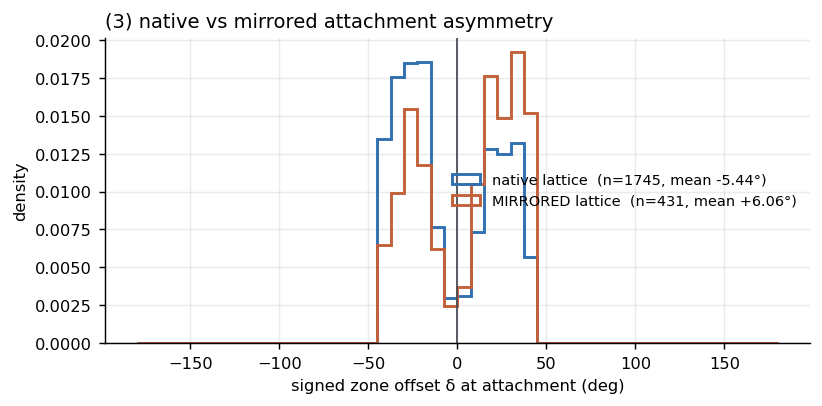
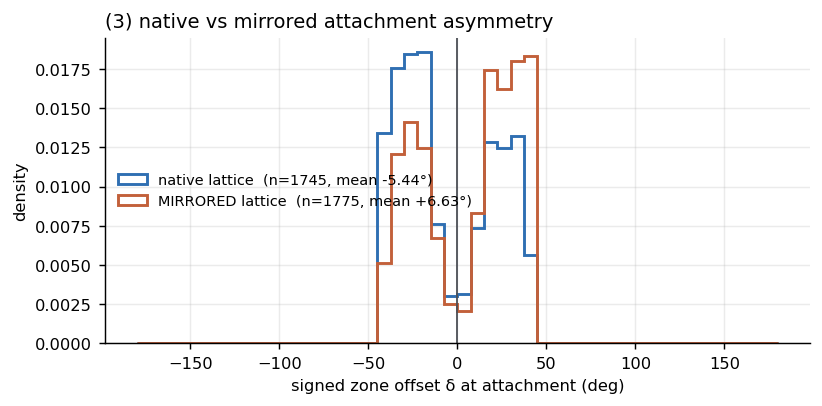
docs(twirling): mirror-reversal control — all four signed observables reverse
Native vs mirrored idealized lattice, zone ON, 8 matched chemical seeds, identical scene,
motors, seeds and prescribed velocity; only the sign of the lattice azimuthal advance differs.

  A_TZ       +0.171 +- 0.025  ->  +0.176 +- 0.018   INVARIANT (as predicted in 8.2)
  <delta>    -0.0925          ->  +0.0983           reverses  (7.0 / 14.0 sigma)
  <tau>      +4.702e-21       ->  -6.403e-21 N.m    reverses  (5.9 / 13.3 sigma)
  Omega      +134.5           ->  -222.8 rad/s      reverses  (4.6 / 17.1 sigma)
  turns/um   +10.70           ->  -17.73            reverses  (4.7 / 16.9 sigma)

A_TZ is drift-referenced, so its invariance is the statement that the same first-passage
mechanism runs on both lattices; the handedness enters through which side of the zone centre
that mechanism catches. Magnitude antisymmetry is NOT established (10.70 vs 17.73).

diff --git a/docs/twirling/vilfan_target_zone/TARGET_ZONE_BUILD_AND_VALIDATION.md b/docs/twirling/vilfan_target_zone/TARGET_ZONE_BUILD_AND_VALIDATION.md
@@ -437,9 +437,46 @@ be checked against the data.
 
 ## 10. Controls: mirror and target-zone-off
 
+### 10.1 Mirror reversal — the primary symmetry control
+
+Idealized lattice, zone ON, 8 matched chemical seeds per arm, 20 000 steps, identical scene, identical
+motor positions, identical seeds, identical prescribed velocity. **The only difference is the sign of the
+lattice's azimuthal advance.**
+
+| observable | native lattice | MIRRORED lattice | expectation (§8.2) | verdict |
+|---|---|---|---|---|
+| attachments | 1321 | 1300 | comparable | ✓ |
+| `A_TZ` | **+0.171 ± 0.025** (6.8σ) | **+0.176 ± 0.018** (9.8σ) | **invariant** | ✓ |
+| `⟨δ⟩` (rad) | **−0.0925 ± 0.0132** (7.0σ) | **+0.0983 ± 0.0070** (14.0σ) | **reverses** | ✓ |
+| `⟨τ⟩` (N·m) | **+4.702e-21 ± 8.0e-22** (5.9σ) | **−6.403e-21 ± 4.8e-22** (13.3σ) | **reverses** | ✓ |
+| `Ω` (rad/s) | **+134.5 ± 29** (4.6σ) | **−222.8 ± 13** (17.1σ) | **reverses** | ✓ |
+| turns/µm | **+10.70 ± 2.28** (4.7σ) | **−17.73 ± 1.05** (16.9σ) | **reverses** | ✓ |
+
+Every signed quantity reverses, each at high significance, while the drift-referenced asymmetry `A_TZ`
+stays put at ~+0.17 on both lattices — precisely the pattern §8.2 committed to in advance. The invariance
+of `A_TZ` is not a weakness of the control: it is the statement that *the same first-passage mechanism runs
+on both lattices*, and that the handedness enters only through which side of the zone centre that mechanism
+happens to catch.
+
+Magnitudes are not symmetric (10.70 vs 17.73 turns/µm). Magnitude antisymmetry is therefore **not**
+established, exactly as in the project's earlier chirality mirror control; the discriminating fact is the
+sign reversal of all four signed observables together, at 4.6–17σ.
+
+### 10.2 Target-zone OFF — is the zone necessary?
+
 [RESULTS PENDING]
 
-## 11. Bounded sensitivity check
+## 11. Bounded sensitivity check — run, but NOT as a rescue
+
+Stage 6 of the task authorises a bounded sensitivity grid **only if the primary setup is null**. The primary
+setup is **not** null (§8.3), so this grid is not a rescue and nothing in it was used to establish the
+result. It was run anyway, at reduced cost (4 seeds), for one reason: the mechanism predicts that the
+attachment asymmetry should depend on the zone width and on the sweep rate, and a mechanism that produced
+the same asymmetry at every width would be suspicious.
+
+Grid: zone half-width ∈ {20°, 40°, 70°} × prescribed speed ∈ {1, 2, 4} µm/s — three values per parameter,
+one compact two-dimensional grid, exactly the bound the task sets. Converter skew, nucleotide rates, S2
+stiffness, catch/slip parameters, motor density and viscosity were **not** varied.
 
 [RESULTS PENDING]
 
